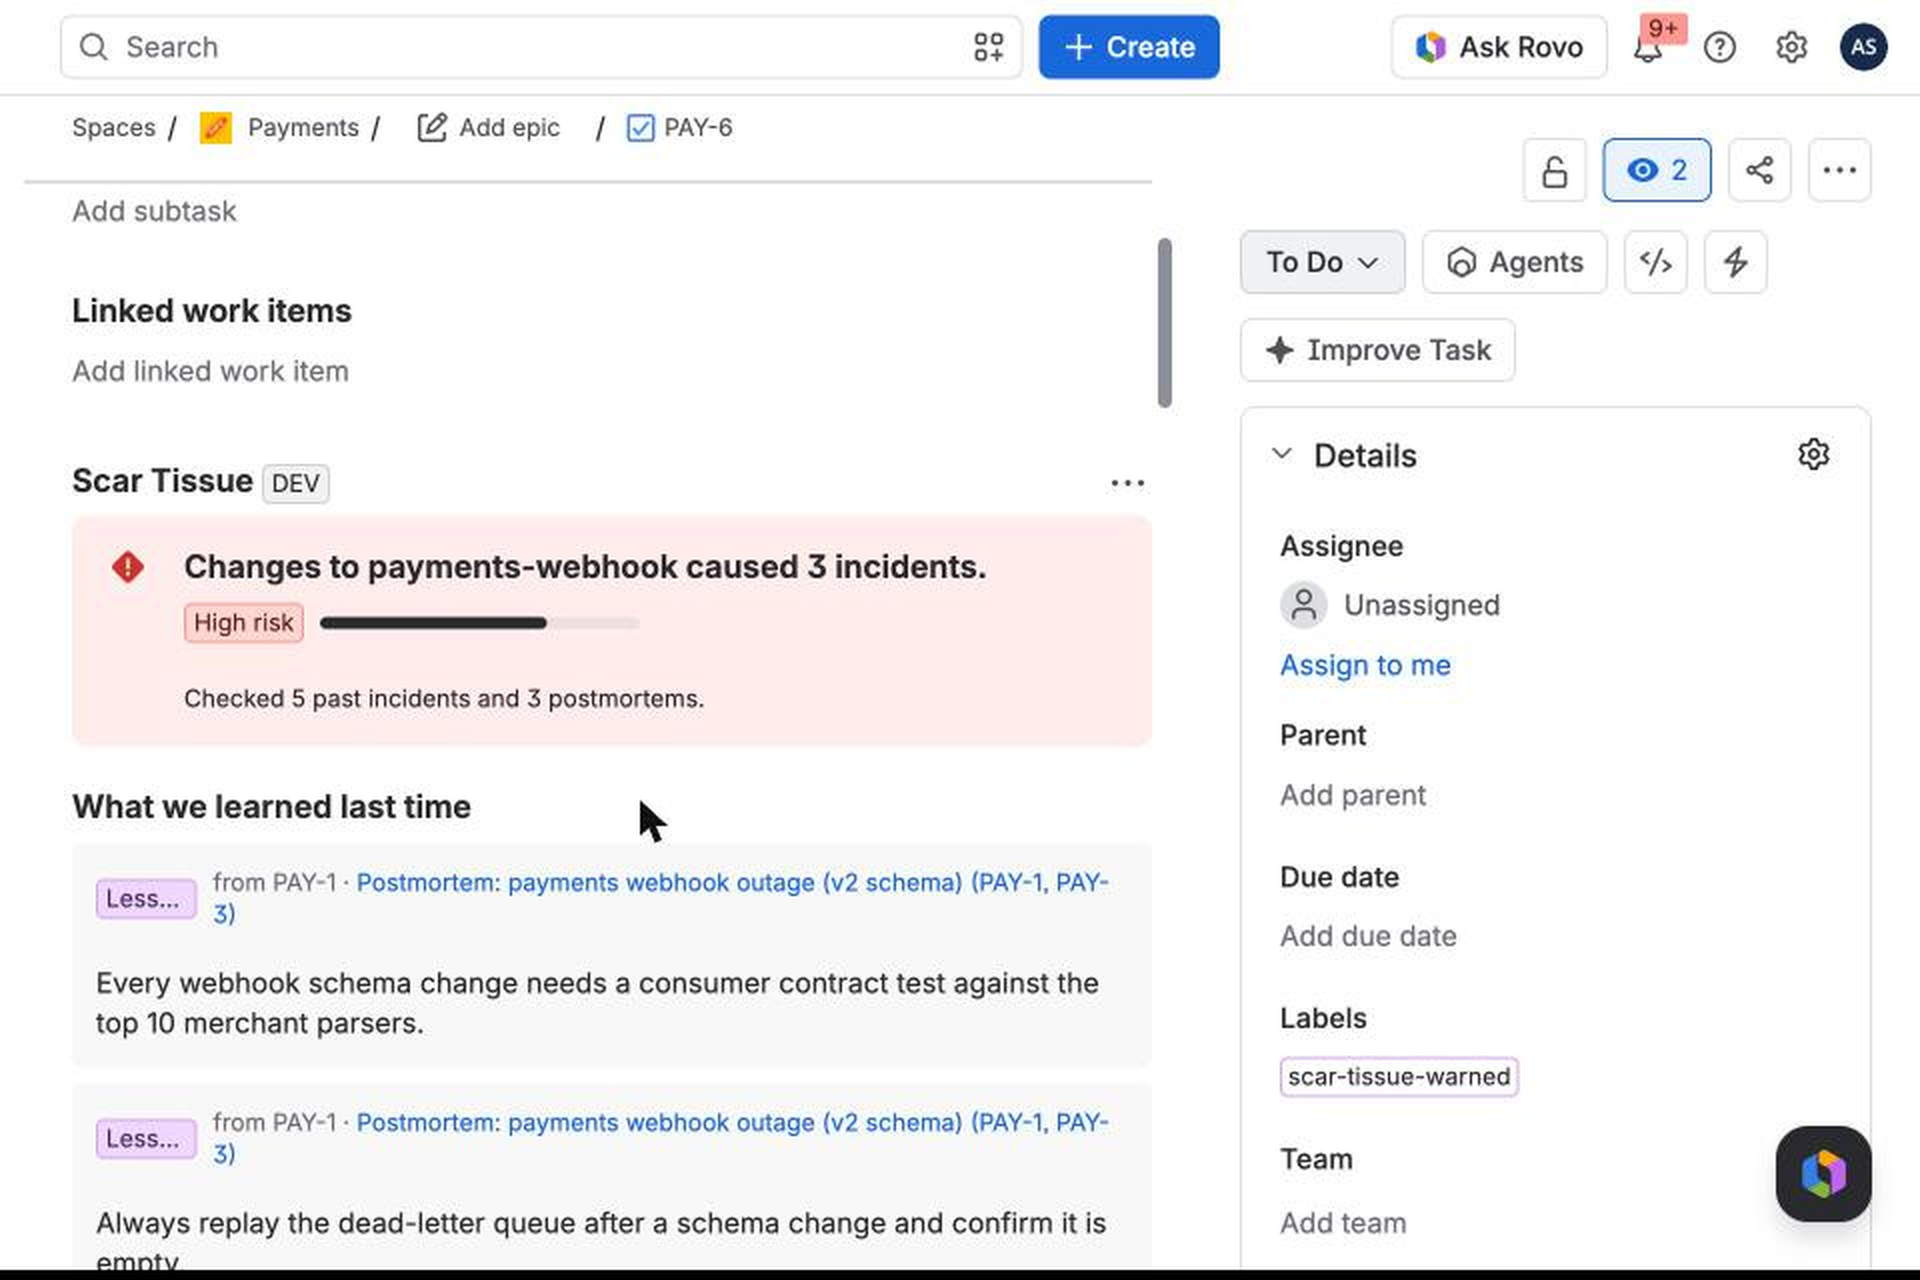
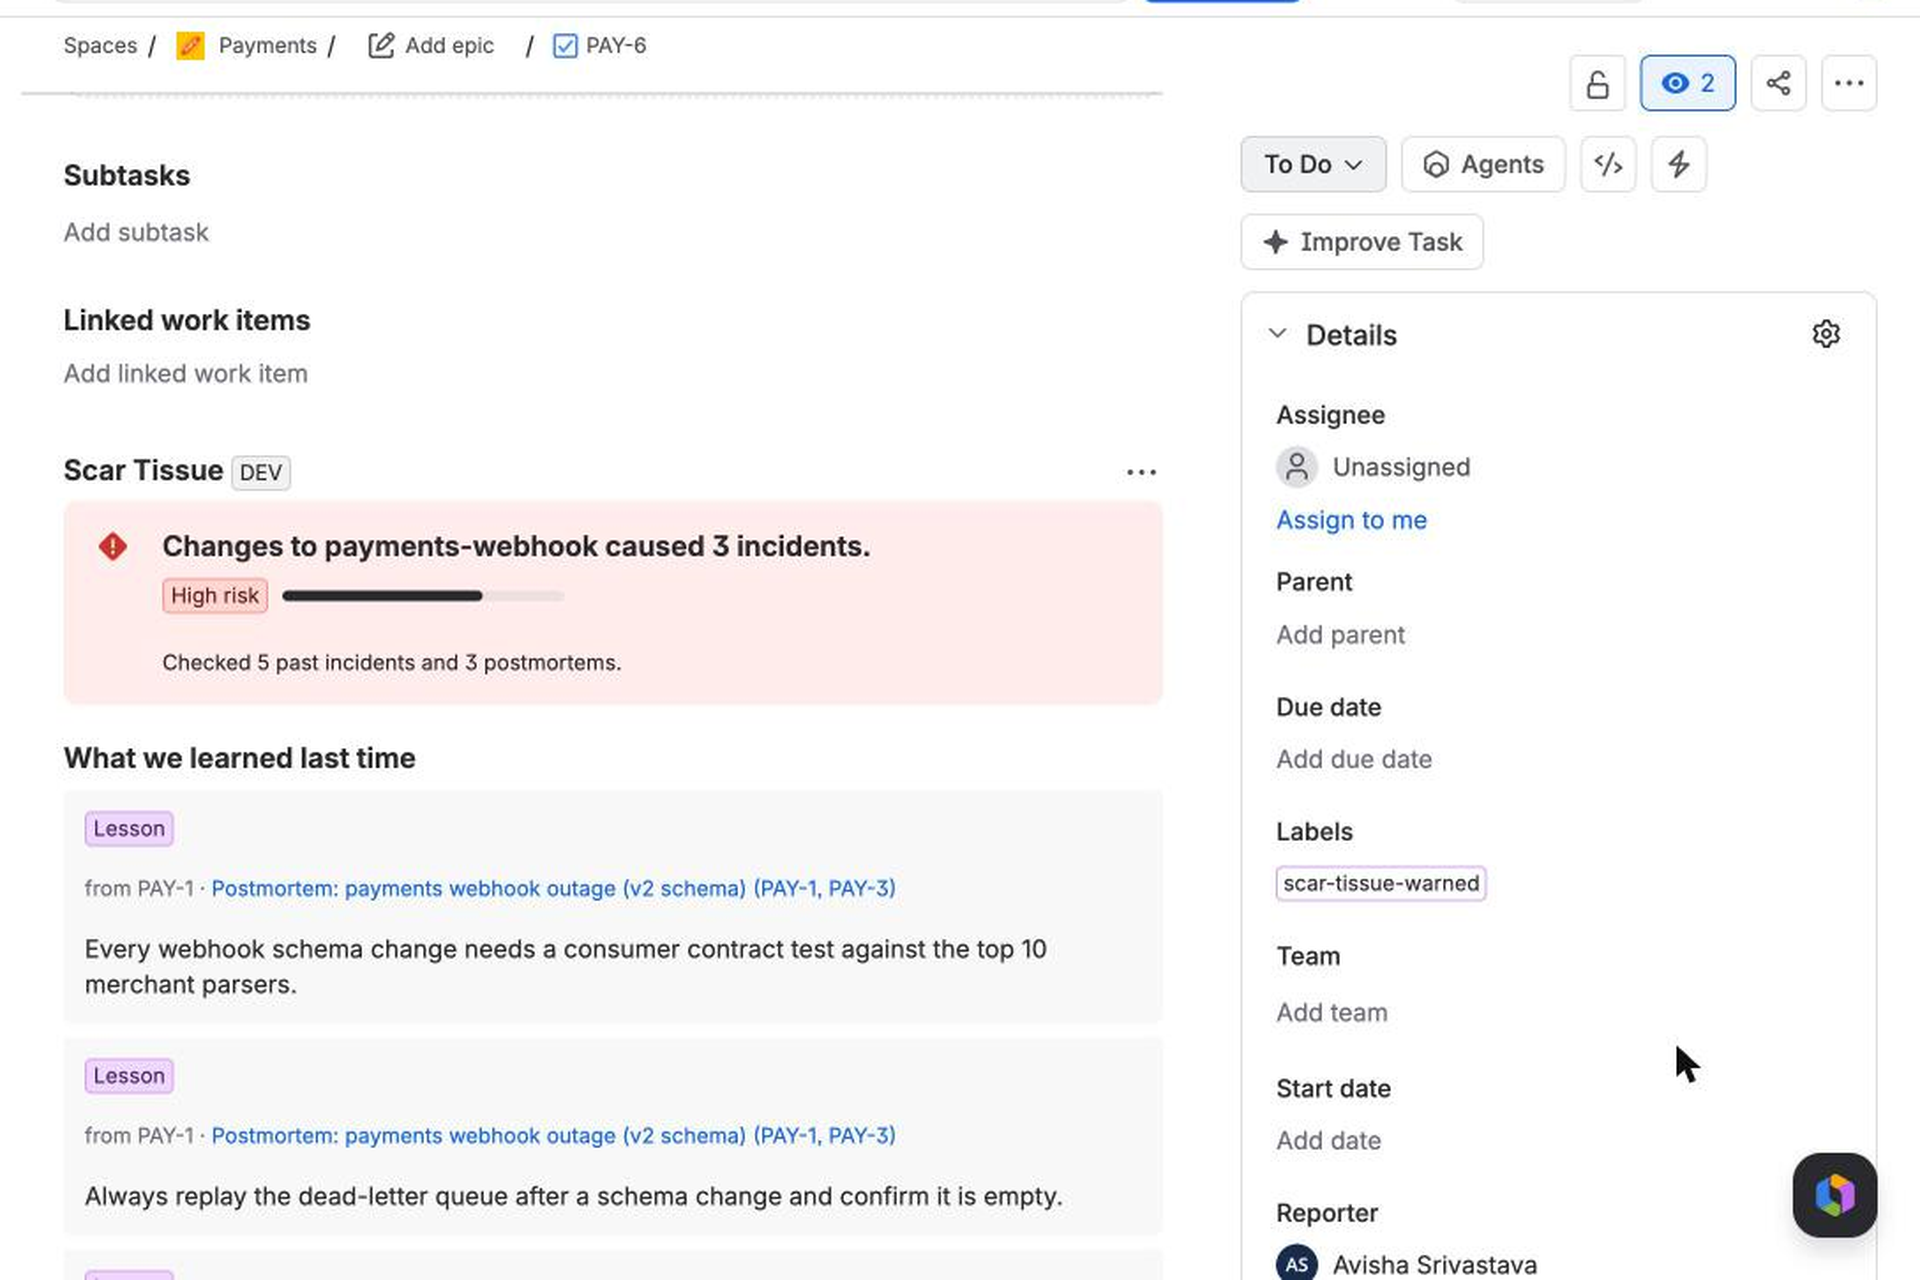
Stop lesson labels truncating in the issue panel; refresh gallery shot

diff --git a/src/frontend/index.jsx b/src/frontend/index.jsx
@@ -64,12 +64,13 @@ function Lessons({ lessons }) {
       {lessons.map((l, i) => (
         <Box key={i} xcss={card}>
           <Stack space="space.050">
-            <Inline space="space.100" alignBlock="center">
+            {/* Label on its own line so a long postmortem title can't squeeze it into "Less…". */}
+            <Inline>
               <Lozenge appearance={l.kind === 'cause' ? 'default' : 'new'}>{KIND[l.kind]}</Lozenge>
-              <Text size="small" color="color.text.subtlest">
-                from {l.from} · <Link href={l.postmortem.url} openNewTab>{l.postmortem.title}</Link>
-              </Text>
             </Inline>
+            <Text size="small" color="color.text.subtlest">
+              from {l.from} · <Link href={l.postmortem.url} openNewTab>{l.postmortem.title}</Link>
+            </Text>
             <Text>{l.text}</Text>
           </Stack>
         </Box>
